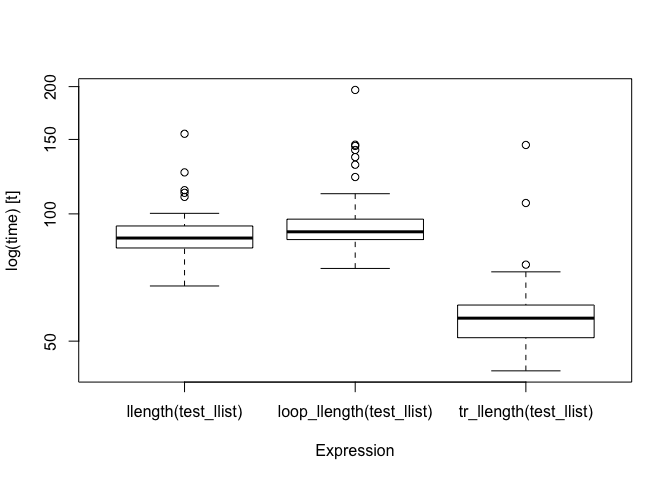
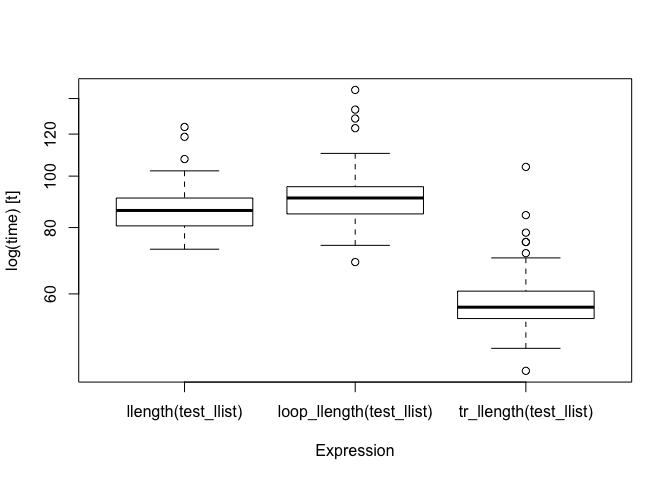
Bumped version

diff --git a/README.md b/README.md
@@ -6,7 +6,7 @@
 [![Project Status: Active – The project has reached a stable, usable
 state and is being actively
 developed.](http://www.repostatus.org/badges/latest/active.svg)](http://www.repostatus.org/#active)
-[![Last-changedate](https://img.shields.io/badge/last%20change-2018--02--27-orange.svg)](/commits/master)
+[![Last-changedate](https://img.shields.io/badge/last%20change-2018--02--28-orange.svg)](/commits/master)
 [![lifecycle](http://img.shields.io/badge/lifecycle-experimental-orange.svg)](https://www.tidyverse.org/lifecycle/#experimental)
 [![Licence](https://img.shields.io/badge/licence-GPL--3-blue.svg)](https://www.gnu.org/licenses/gpl-3.0.en.html)
 
@@ -21,7 +21,7 @@ status](http://coveralls.io/repos/github/mailund/tailr/badge.svg?branch=master)]
 
 [![minimal R
 version](https://img.shields.io/badge/R%3E%3D-3.1-blue.svg)](https://cran.r-project.org/)
-[![packageversion](https://img.shields.io/badge/Package%20version-0.0.0.9003-orange.svg?style=flat-square)](commits/master)
+[![packageversion](https://img.shields.io/badge/Package%20version-0.0.0.9004-orange.svg?style=flat-square)](commits/master)
 <!--[![CRAN_Status_Badge](http://www.r-pkg.org/badges/version/tailr)](https://cran.r-project.org/package=tailr)
 -->
 
@@ -109,14 +109,14 @@ bm <- microbenchmark::microbenchmark(factorial(n),
                                      tr_factorial(n))
 bm
 #> Unit: microseconds
-#>               expr     min        lq      mean    median        uq
-#>       factorial(n) 847.791 1030.0675 1376.1084 1175.6350 1463.7640
-#>  loop_factorial(n)  61.760   64.9355  104.2284   67.3965   70.1890
-#>    tr_factorial(n) 194.036  213.9335  270.4690  238.0405  287.6175
-#>       max neval
-#>  8944.642   100
-#>  3074.322   100
-#>   552.738   100
+#>               expr     min       lq      mean   median       uq      max
+#>       factorial(n) 736.394 994.5110 1400.3118 1286.726 1614.871 9320.253
+#>  loop_factorial(n)  51.815  61.6665  142.5992   75.910  119.890 5561.984
+#>    tr_factorial(n) 162.779 211.4780  301.4939  268.552  374.352  672.439
+#>  neval
+#>    100
+#>    100
+#>    100
 boxplot(bm)
 ```
 
@@ -215,10 +215,10 @@ tr_llength
 #>         repeat {
 #>             llist <- .tailr_llist
 #>             acc <- .tailr_acc
-#>             if (!rlang::is_null(..match_env <- test_pattern(llist, 
+#>             if (!rlang::is_null(..match_env <- pmatch::test_pattern(llist, 
 #>                 NIL))) 
 #>                 with(..match_env, escape(acc))
-#>             else if (!rlang::is_null(..match_env <- test_pattern(llist, 
+#>             else if (!rlang::is_null(..match_env <- pmatch::test_pattern(llist, 
 #>                 CONS(car, cdr)))) 
 #>                 with(..match_env, {
 #>                   .tailr_llist <<- cdr
@@ -249,13 +249,13 @@ bm <- microbenchmark::microbenchmark(llength(test_llist),
 bm
 #> Unit: milliseconds
 #>                      expr      min       lq     mean   median       uq
-#>       llength(test_llist) 67.52501 83.05195 89.17195 87.66929 93.63144
-#>  loop_llength(test_llist) 74.29022 86.94136 94.64089 90.70131 97.17110
-#>    tr_llength(test_llist) 42.53179 50.94649 57.54708 56.66725 60.86652
+#>       llength(test_llist) 72.83178 80.59147 87.26963 86.15845 90.93959
+#>  loop_llength(test_llist) 68.87984 84.87835 91.44810 90.95442 95.51915
+#>    tr_llength(test_llist) 42.97351 53.91717 58.23168 56.63977 60.72165
 #>       max neval
-#>  154.7025   100
-#>  196.3967   100
-#>  145.5373   100
+#>  123.7698   100
+#>  145.3178   100
+#>  104.0721   100
 boxplot(bm)
 ```
 
